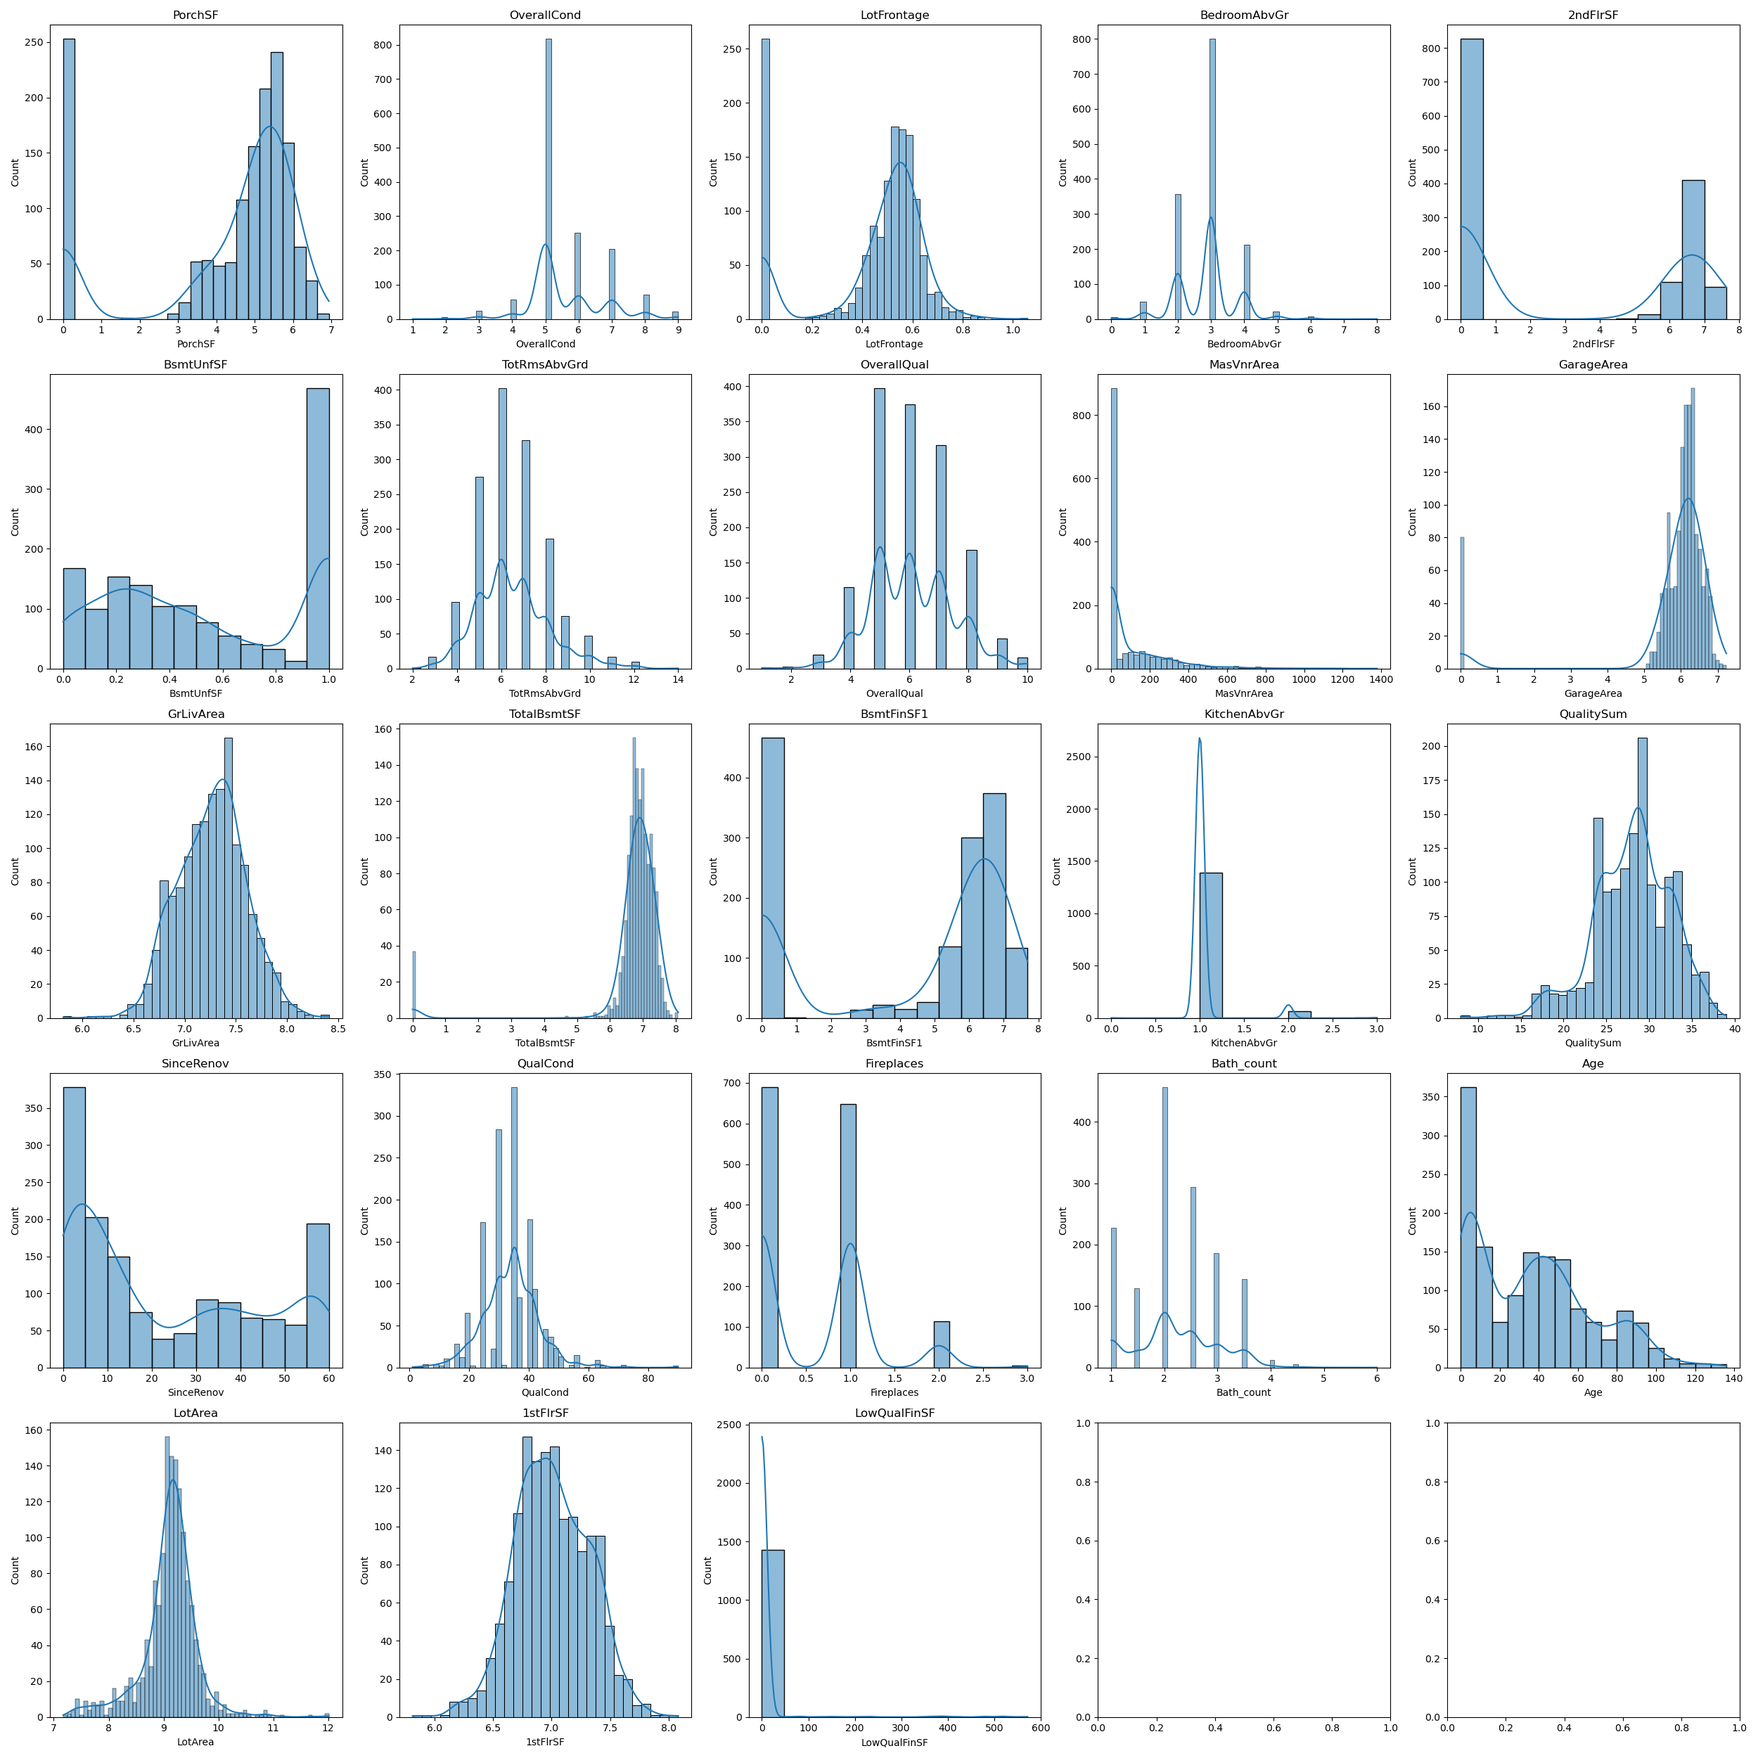
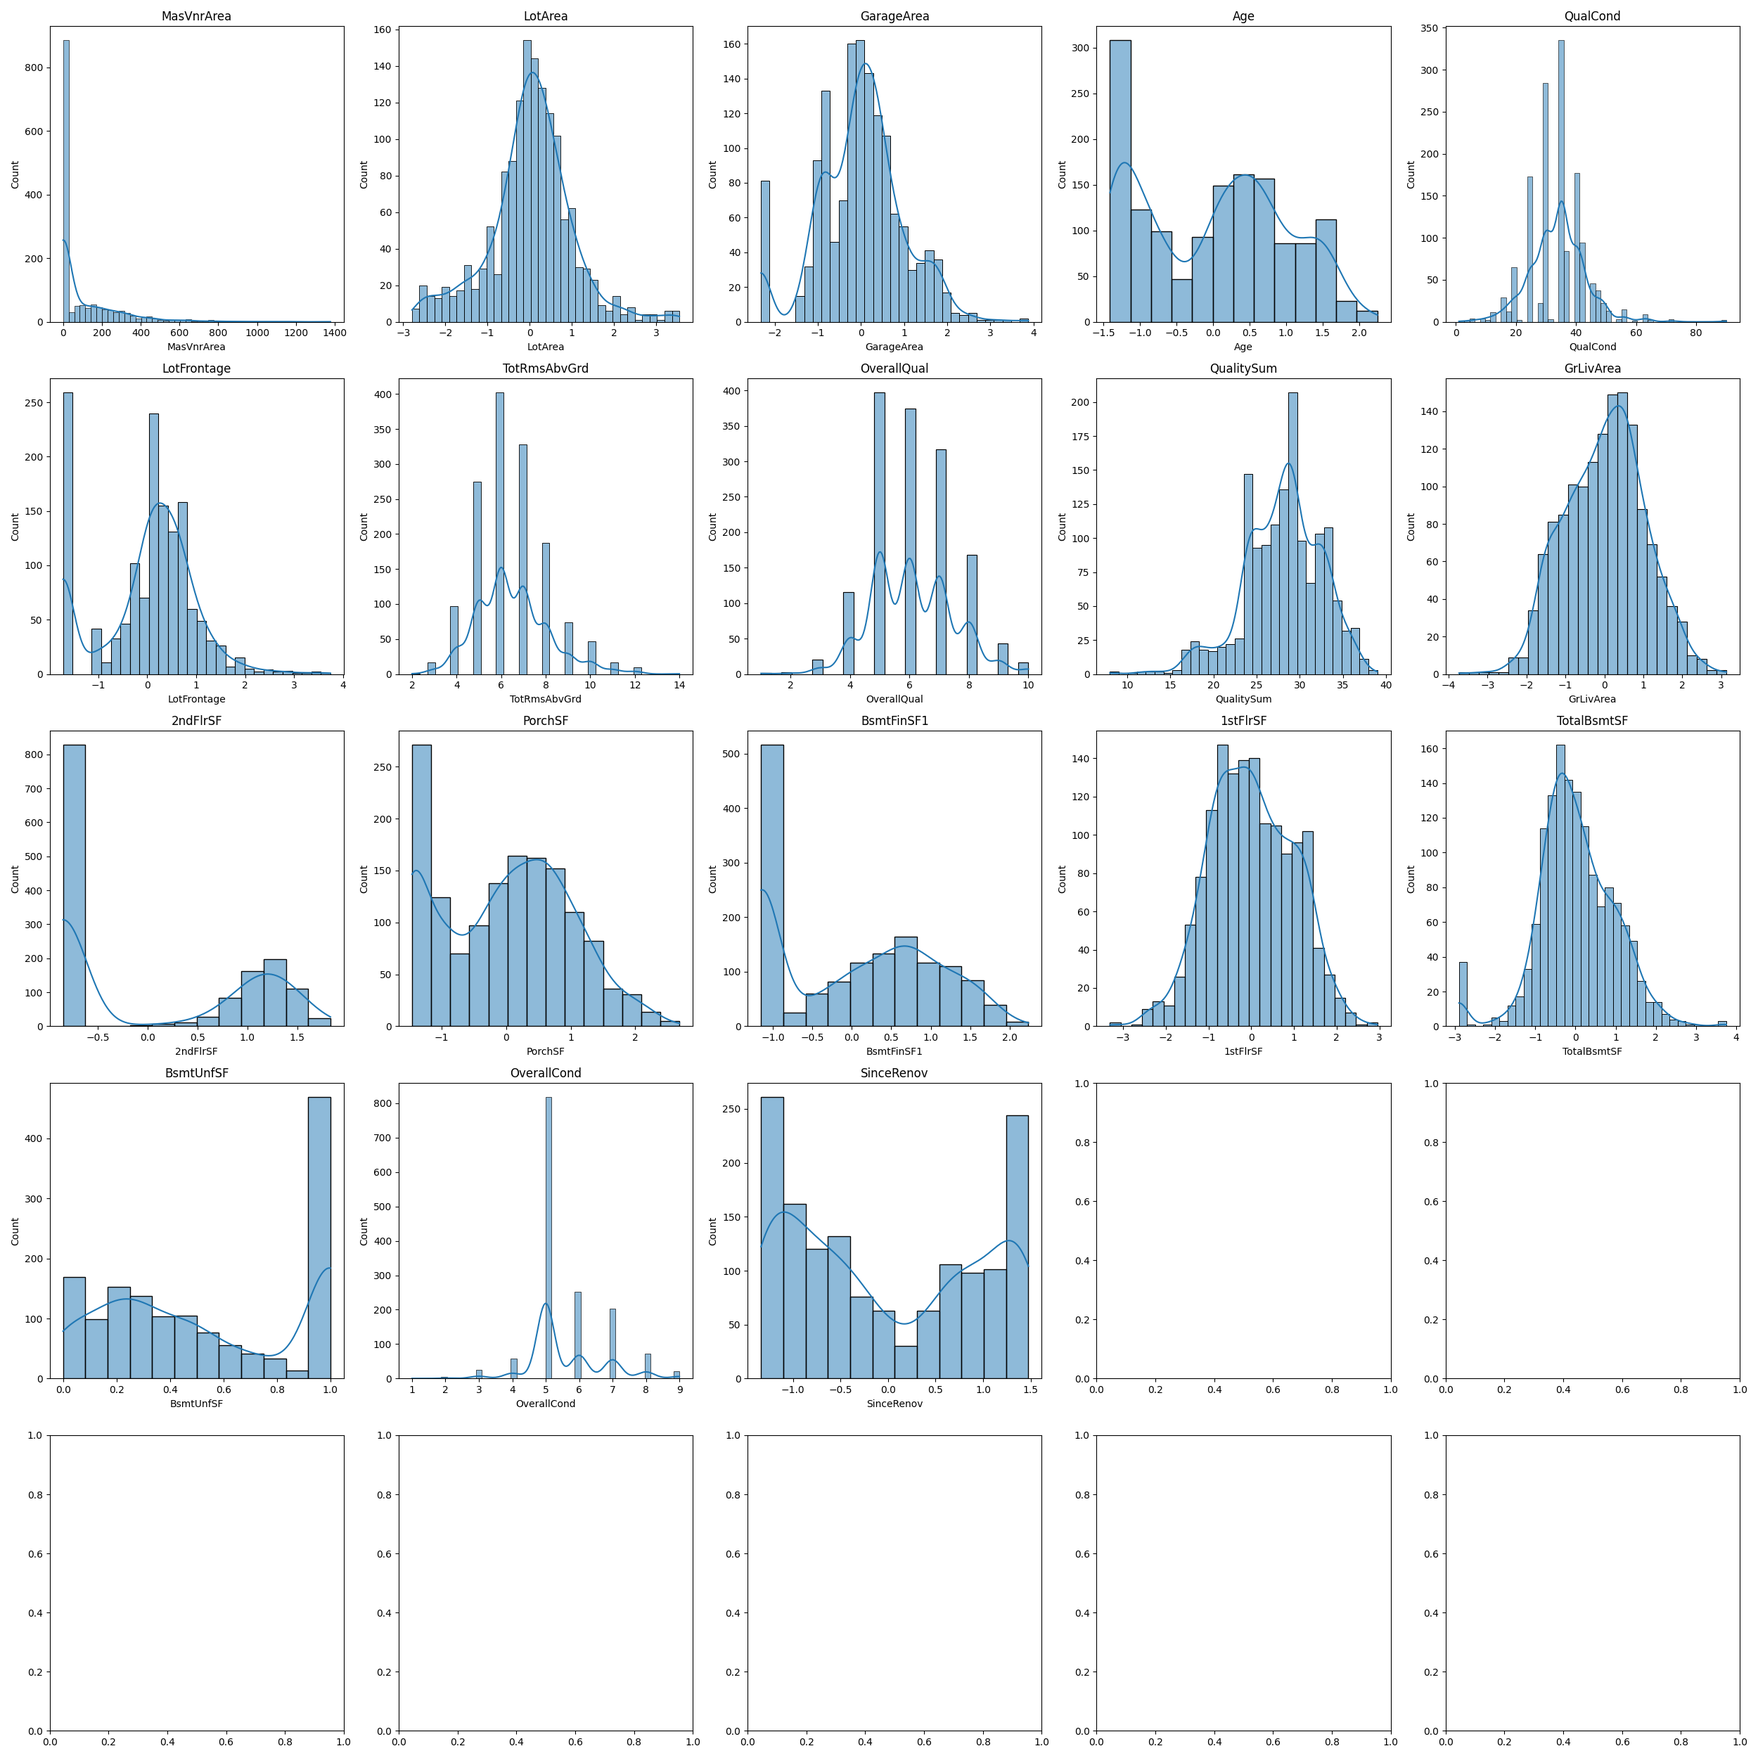
Feature scaling and transformation

diff --git a/train.py b/train.py
@@ -5,9 +5,9 @@ plt.rcParams.update({'figure.max_open_warning': 0})
 import seaborn as sn
 
 import shap
-
-from sklearn.impute import SimpleImputer
-from sklearn import preprocessing 
+from sklearn import preprocessing
+from sklearn.preprocessing import PowerTransformer
+from sklearn.preprocessing import MinMaxScaler
 from sklearn import metrics
 from sklearn.model_selection import train_test_split
 from sklearn.linear_model import LinearRegression
@@ -139,7 +139,7 @@ print(combine_data.groupby('MasVnrType', as_index=False)['OverallQual'].mean())
 garage_list = ['GarageType','GarageFinish','GarageQual','GarageCond']
 quality_sum_list =['ExterQual','BsmtQual','HeatingQC','KitchenQual','FireplaceQu','GarageQual','ExterCond', 'BsmtCond', 'GarageCond', 'PoolQC']
 bath_list = ['BsmtFullBath','BsmtHalfBath','FullBath','HalfBath']
-bmst_list = ['BsmtQual','BsmtCond','BsmtExposure','BsmtFinType1','BsmtFinType2']
+bsmt_list = ['BsmtQual','BsmtCond','BsmtExposure','BsmtFinType1','BsmtFinType2']
 porch_list = ['OpenPorchSF','ScreenPorch','EnclosedPorch','3SsnPorch','WoodDeckSF']
 
 #####FEATURE ENGINEERING; FILL MISSING DATA MANUALLY
@@ -161,6 +161,16 @@ combine_data.loc[combine_data['LotFrontage'].isna(), 'LotFrontage'] = 0
 combine_data.loc[combine_data['GarageYrBlt'].isna(), 'GarageYrBlt'] = 0
 combine_data.loc[combine_data['GarageArea'].isna(), 'GarageArea'] = 0
 combine_data.loc[combine_data['GarageCars'].isna(), 'GarageCars'] = 0
+combine_data.loc[combine_data['MasVnrArea'].isna(), 'MasVnrArea'] = 0
+
+combine_data.loc[combine_data['Electrical'].isna(), 'Electrical'] = 'SBrkr'
+combine_data.loc[combine_data['Functional'].isna(), 'Functional'] = 'Typ'
+combine_data.loc[combine_data['Utilities'].isna(), 'Utilities'] = 'AllPub'
+combine_data.loc[combine_data['SaleType'].isna(), 'SaleType'] = 'WD'
+combine_data.loc[combine_data['Exterior1st'].isna(), 'Exterior1st'] = 'Plywood'
+combine_data.loc[combine_data['Exterior2nd'].isna(), 'Exterior2nd'] = 'Plywood'
+
+combine_data.loc[combine_data['KitchenQual'].isna(), 'KitchenQual'] = combine_data.loc[combine_data['KitchenAbvGr'] == 1, 'KitchenQual'].value_counts().idxmax()
 
 combine_data['QualCond'] = combine_data['OverallQual'] * combine_data['OverallCond']
 
@@ -175,11 +185,6 @@ combine_data.loc[combine_data['GarageCars'] == 2 , 'GarageCars'] = 'Two'
 combine_data.loc[combine_data['GarageCars'] == 3 , 'GarageCars'] = 'Three'
 combine_data.loc[combine_data['GarageCars'] == 4 , 'GarageCars'] = 'Four'
 
-as_string_list = ['MoSold', 'MSSubClass', 'GarageCars']
-for col in as_string_list:
-	combine_data[col] = combine_data[col].astype(str)
-
-
 
 k = 0
 while k < len(combine_data):
@@ -187,22 +192,6 @@ while k < len(combine_data):
 		combine_data.at[k,'Pool'] = 1
 	else:
 		combine_data.at[k,'Pool'] = 0
-	# if pd.isna(combine_data.at[k, 'MiscFeature']):
-	# 	combine_data.at[k, 'MiscFeature'] = 0
-	# else:
-	# 	combine_data.at[k, 'MiscFeature'] = 1
-	# if pd.isna(combine_data.at[k, 'MasVnrType']): ######Feature depends on OverallQual; use it as criterion to fill missing values
-	# 	if combine_data.at[k, 'OverallQual'] == 7:
-	# 		combine_data.at[k, 'MasVnrType'] = 'BrkFace'
-	# 	elif combine_data.at[k, 'OverallQual'] > 7:
-	# 		combine_data.at[k, 'MasVnrType'] = 'Stone'
-	# 	else:
-	# 		combine_data.at[k, 'MasVnrType'] = 'Abs'
-	if pd.isna(combine_data.at[k, 'MasVnrArea']): ######No strong correlation with any other feature, fill with data mean
-		if combine_data.at[k, 'MasVnrType'] != 'Abs':
-			combine_data.at[k, 'MasVnrArea'] = combine_data.loc[combine_data['MasVnrArea'] > 0, 'MasVnrArea'].mean()
-		else:
-			combine_data.at[k, 'MasVnrArea'] = 0
 	# if pd.isna(combine_data.at[k, 'LotFrontage']): ######No strong correlation with any other feature, fill with data mean
 	# 	combine_data.at[k, 'LotFrontage'] = combine_data.loc[combine_data['LotFrontage'] > 0, 'LotFrontage'].mean()		
 	# for col in garage_list:
@@ -242,12 +231,11 @@ while k < len(combine_data):
 			combine_data.at[k, 'QualitySum'] += 1
 	if combine_data.at[k, 'TotalBsmtSF'] > 0:
 		combine_data.at[k, 'BsmtUnfSF'] =  combine_data.at[k, 'BsmtUnfSF']/combine_data.at[k, 'TotalBsmtSF']
-	if combine_data.at[k, 'TotalBsmtSF'] == 0:
-		combine_data.at[k, 'BsmtFinType1'] = 'Abs'
-		combine_data.at[k, 'BsmtFinType2'] = 'Abs'
-		combine_data.at[k, 'BsmtExposure'] = 'Abs'
-		combine_data.at[k, 'BsmtQual'] = 'Abs'
-		combine_data.at[k, 'BsmtCond'] = 'Abs'
+	for col in bsmt_list:
+		if combine_data.at[k, 'TotalBsmtSF'] == 0:
+			combine_data.at[k, col] = 'Abs'
+		elif (pd.isna(combine_data.at[k, col])) and (combine_data.at[k, 'TotalBsmtSF'] > 0):
+			combine_data.at[k, col] = combine_data.loc[combine_data['TotalBsmtSF'] > 0, col].value_counts().idxmax()
 	combine_data.at[k, 'SinceRenov'] = combine_data.at[k, 'YrSold'] - combine_data.at[k, 'YearRemodAdd']
 	if combine_data.at[k, 'SinceRenov'] < 0:
 		combine_data.at[k, 'SinceRenov'] = 0
@@ -256,7 +244,7 @@ while k < len(combine_data):
 		combine_data.at[k, 'Age'] = 0
 	combine_data.at[k, 'PorchSF'] = combine_data.at[k, 'OpenPorchSF'] + combine_data.at[k, 'EnclosedPorch'] + combine_data.at[k, '3SsnPorch'] + combine_data.at[k, 'ScreenPorch'] + combine_data.at[k, 'WoodDeckSF']
 	combine_data.at[k, 'Bath_count'] = combine_data.at[k, 'BsmtFullBath'] + combine_data.at[k, 'FullBath'] + 0.5*combine_data.at[k, 'BsmtHalfBath'] + 0.5*combine_data.at[k, 'HalfBath']
-	combine_data.at[k, 'LotFrontage'] = combine_data.at[k, 'LotFrontage'] / np.sqrt(combine_data.at[k,'LotArea'])
+	##combine_data.at[k, 'LotFrontage'] = combine_data.at[k, 'LotFrontage'] / np.sqrt(combine_data.at[k,'LotArea'])
 	if pd.isna(combine_data.at[k, 'MSZoning']): #####Fill missing values based on 
 		combine_data.at[k, 'MSZoning'] = 'C (all)'
 		if combine_data.at[k,'YearBuilt'] > 1938:
@@ -269,6 +257,10 @@ while k < len(combine_data):
 			combine_data.at[k, 'MSZoning'] = 'FV'
 	k+=1
 
+as_string_list = ['MoSold', 'MSSubClass', 'GarageCars', 'KitchenAbvGr', 'BedroomAbvGr', 'Fireplaces', 'Bath_count', 'GarageYrBlt']
+for col in as_string_list:
+	combine_data[col] = combine_data[col].astype(str)
+
 #####CONVERT PORCH FEATURES TO BINARY
 for col in porch_list:
 	combine_data.loc[combine_data[col] > 0, col] = 1
@@ -276,18 +268,13 @@ for col in porch_list:
 i = i.rename({'OpenPorchSF': 'OpenPorch', 'WoodDeckSF': 'WoodDeck'}, axis=1)
 
 #####DROP COLUMNS THAT HAVE BEEN USED FOR ENGINEERRING
-drop_eng_list = ['YrSold', 'YearBuilt', 'YearRemodAdd', 'PoolArea']
+drop_eng_list = ['YrSold', 'YearBuilt', 'YearRemodAdd', 'PoolArea', 'GarageYrBlt']
 drop_eng_list.extend([*bath_list, *garage_list])
 combine_data.drop(drop_eng_list, axis=1, inplace=True)
 
 mis_train = combine_data.isnull().sum()
 print('Columns with missing values after manual filling:')
 print(mis_train[mis_train > 0])		
-for col in combine_data.columns: ####Fill missing values in left over columnt with most frequent value
-	if col not in 'SalePrice':
-		imputer = SimpleImputer(missing_values=np.nan, strategy='most_frequent')
-		imputer.fit(combine_data[[col]])
-		combine_data[[col]] = imputer.transform(combine_data[[col]])
 
 list_empty=combine_data.columns[combine_data.isnull().any()].tolist()
 missing = []
@@ -311,52 +298,59 @@ for col in combine_data.columns:
 		combine_data = pd.concat([combine_data,pd.get_dummies(combine_data[col], prefix = col)],axis = 1)
 		combine_data.drop(col, axis=1, inplace=True)
 
-train = combine_data.loc[combine_data['Test'] == 0].copy()
-train.drop('Test', axis=1, inplace=True)
-test = combine_data.loc[combine_data['Test'] == 1].copy()
-test.drop('Test', axis=1, inplace=True)
-test.drop('SalePrice', axis=1, inplace=True)
-
-#####REDEFINE DATA, TRAIN AND TEST NAME DUE TO CONCAT
-train.name = 'train'
-test.name = 'test'
-data = [train,test]
-
-binary_col_list = return_binary_col(train)
+binary_col_list = return_binary_col(combine_data)
 
 #####HISTOGRAMS CONTINUOUS DATA
 f, ax = plt.subplots(5, 6, figsize=(30, 25))
 l=1
-for col in [elem for elem in list(set(train.columns) - set(binary_col_list)) if elem not in ['SalePrice', 'Id']]:
+for col in [elem for elem in list(set(combine_data.columns) - set(binary_col_list)) if elem not in ['SalePrice', 'Id']]:
 	ax = plt.subplot(5,6,l)
-	sn.histplot(data=train[col])
+	sn.histplot(data=combine_data[col])
 	ax.set_title(col)
 	l+=1
 f.tight_layout()
 plt.savefig('graphs/hist_num.png')
 plt.close
 
-#####TRANSFORM CONTINUOUS DATA TO REDUCE SKEWNESS
-transform_list=['SalePrice','LotArea','LotFrontage','GrLivArea','TotalBsmtSF', '1stFlrSF','2ndFlrSF', 'GarageArea','PorchSF', 'BsmtFinSF1', 'BsmtFinSF2', 'MiscVal', 'MiscVnrArea']
-for i in data:
-	for col in [element for element in transform_list if element in train]:
-		if i.name == 'test' and col == 'SalePrice':
-			pass
-		elif i.name == 'train' and col == 'SalePrice':
-			i[col] = np.log1p(i.loc[:,col].values.reshape(-1, 1))
-		else:
-			i[col] = np.log1p(i.loc[:,col].values.reshape(-1, 1))
+#####SKEWNESS OF CONTINUOUS FEATURES
+transform_list=['LotArea','LotFrontage','GrLivArea','TotalBsmtSF', '1stFlrSF','2ndFlrSF', 'GarageArea','PorchSF', 'BsmtFinSF1', 'BsmtFinSF2', 'MiscVal', 'MiscVnrArea', 'Age', 'SinceRenov']
+cont_skew = {}
+for col in [element for element in transform_list if element in combine_data]:
+	cont_skew[col] = combine_data[col].skew()
+print('\nSkewness of continuous features:')
+[print(key,':',value) for key, value in cont_skew.items()]
+
+#####SCALE AND TRANSFORM CONTINUOUS DATA TO REDUCE SKEWNESS
+mm_scaler = preprocessing.MinMaxScaler()
+pt = PowerTransformer()
+for col in [element for element in transform_list if element in combine_data]:
+	combine_data[col] = mm_scaler.fit_transform(combine_data.loc[:,col].values.reshape(-1, 1))
+	combine_data[col] = pt.fit_transform(combine_data.loc[:,col].values.reshape(-1, 1))
 
 f, ax = plt.subplots(5, 6, figsize=(25, 20))
 l=1
-for i in [elem for elem in list(set(train.columns) - set(binary_col_list)) if elem not in ['SalePrice', 'Id']]:
+for col in [elem for elem in list(set(combine_data.columns) - set(binary_col_list)) if elem not in ['SalePrice', 'Id']]:
 	ax = plt.subplot(5,6,l)
-	sn.histplot(data=train[i])
-	ax.set_title(i)
+	sn.histplot(data=combine_data[col])
+	ax.set_title(col)
 	l+=1
 f.tight_layout()
 plt.savefig('graphs/hist_num_quantile.png')
 plt.close
+
+######SPLIT IN TEST AND TRAIN AGAIN
+train = combine_data.loc[combine_data['Test'] == 0].copy()
+train.drop('Test', axis=1, inplace=True)
+test = combine_data.loc[combine_data['Test'] == 1].copy()
+test.drop('Test', axis=1, inplace=True)
+test.drop('SalePrice', axis=1, inplace=True)
+
+train['SalePrice'] = np.log1p(train.loc[:,'SalePrice'].values.reshape(-1, 1))
+
+#####REDEFINE DATA, TRAIN AND TEST NAME DUE TO CONCAT
+train.name = 'train'
+test.name = 'test'
+data = [train,test]
 
 f, ax = plt.subplots(5, 6, figsize=(25, 20))
 l=1
@@ -385,7 +379,7 @@ print(*drop_corr, sep = '\n')
 cont_skew = {}
 for col in [element for element in transform_list if element in train]:
 	cont_skew[col] = train[col].skew()
-print('\nSkewness of continuous features:')
+print('\nSkewness after scaling and transformation of features:')
 [print(key,':',value) for key, value in cont_skew.items()]
 
 #####CHECK FOR OUTLIERS
@@ -406,17 +400,19 @@ plt.savefig('graphs/scatter_price_cont_final.png')
 plt.close
 
 #####DROP COLUMNS WITH NO CORRELATION TO PRICE, BASED ON PREVIOUS SCATTER PLOT
-drop_scatter_list = ['KitchenAbvGrd', 'BsmtFinSF2', 'MiscVal', 'LowQualFinSF', 'BedRoomAbvGrd']
+drop_scatter_list = ['BsmtFinSF2', 'LowQualFinSF']
+for i in data:
+	i.drop(drop_scatter_list, axis=1, inplace=True)
 
 #####REMOVE SOME MAX OUTLIERS - JUDGEMENT BASED ON SCATTER PLOT
-outlier_col = ['LotArea', 'LotFrontage', 'MasVnrArea', 'GrLivArea', 'TotalBsmtSF']
+outlier_col = ['LotFrontage', 'MasVnrArea', 'GrLivArea', 'TotalBsmtSF','GarageArea', 'QualitySum']
 outlier_row = []
 for col in outlier_col:
 	if train[col].idxmax() in outlier_row:
 		pass
 	else:
 		outlier_row.append(train[col].idxmax())
-	if col in ('GrLivArea'):
+	if col in ('GrLivArea', 'LotFrontage'):
 		print('\nMaximal values of %s:' % col)
 		print(train[col].nlargest(2))
 		second_max = train.loc[train[col] == train[col].nlargest(2).iloc[1]].index[0]
@@ -674,43 +670,43 @@ Y_pred = lgb_reg_opt.predict(x_test)
 print('Accuracy Optimized LightGBM (RMSLE):',np.sqrt(metrics.mean_squared_log_error(np.expm1(y_test), np.expm1(Y_pred))))
 
 ####TRAIN XGB REGRESSOR WITH ALL TRAIN DATA
-estimator = xgb.XGBRegressor(
-    n_jobs=-1,
-    verbosity=0,
-)
+# estimator = xgb.XGBRegressor(
+#     n_jobs=-1,
+#     verbosity=0,
+# )
 
-search_space = {
-    'learning_rate': (Real(0.001, 1.0, 'log-uniform')),
-    'eta': (Real(0.1, 0.5, 'log-uniform')),
-    'gamma': (0.0, 0.5),
-    'min_child_weight': (0, 10),
-    'max_depth': (2, 12),
-    'colsample_bytree': (Real(0.01, 1.0, 'log-uniform')),
-    'min_child_weight': (0, 5),
-    'reg_lambda': (Real(0.00001,1,'log-uniform')),
-    'reg_alpha': (Real(0.00001,1,'log-uniform')),
-    'subsample': (0.5, 1.0),
-    'n_estimators': (5, 5000),
-}
+# search_space = {
+#     'learning_rate': (Real(0.001, 1.0, 'log-uniform')),
+#     'eta': (Real(0.1, 0.5, 'log-uniform')),
+#     'gamma': (0.0, 0.5),
+#     'min_child_weight': (0, 10),
+#     'max_depth': (2, 12),
+#     'colsample_bytree': (Real(0.01, 1.0, 'log-uniform')),
+#     'min_child_weight': (0, 5),
+#     'reg_lambda': (Real(0.00001,1,'log-uniform')),
+#     'reg_alpha': (Real(0.00001,1,'log-uniform')),
+#     'subsample': (0.5, 1.0),
+#     'n_estimators': (5, 5000),
+# }
 
-cv = KFold(n_splits=5, shuffle=True)
-n_iterations = 50
-bayes_cv_tuner = BayesSearchCV(
-    estimator=estimator,
-    search_spaces=search_space,
-    scoring='neg_root_mean_squared_error',
-    cv=cv,
-    n_jobs=-1,
-    n_iter=n_iterations,
-    verbose=0,
-    refit=True,
-)
+# cv = KFold(n_splits=3, shuffle=True)
+# n_iterations = 50
+# bayes_cv_tuner = BayesSearchCV(
+#     estimator=estimator,
+#     search_spaces=search_space,
+#     scoring='neg_root_mean_squared_error',
+#     cv=cv,
+#     n_jobs=-1,
+#     n_iter=n_iterations,
+#     verbose=0,
+#     refit=True,
+# )
 
-xg_reg_all_data = bayes_cv_tuner.fit(X_train, Y_train, callback=print_status)
-print('\nOptimized XGBoost Parameters for All Data:')
-print(xg_reg_all_data.best_params_)
-Y_pred = xg_reg_all_data.predict(x_test)
-print('Accuracy Optimized XGBoost Trained on all Data (RMSLE):',np.sqrt(metrics.mean_squared_log_error(np.expm1(y_test), np.expm1(Y_pred))))
+# xg_reg_all_data = bayes_cv_tuner.fit(X_train, Y_train, callback=print_status)
+# print('\nOptimized XGBoost Parameters for All Data:')
+# print(xg_reg_all_data.best_params_)
+# Y_pred = xg_reg_all_data.predict(x_test)
+# print('Accuracy Optimized XGBoost Trained on all Data (RMSLE):',np.sqrt(metrics.mean_squared_log_error(np.expm1(y_test), np.expm1(Y_pred))))
 
 # xg_reg_all_data = xgb.XGBRegressor(learning_rate = 0.02206560306361786, colsample_bytree = 0.13229035226856173, eta = 0.07009800269441162, gamma= 0.0, max_depth = 2, min_child_weight = 0, n_estimators = 2441, reg_alpha = 1e-05, reg_lambda = 3.1417848320047077, subsample = 0.7286057220169017)
 # xg_reg_all_data.fit(X_train,Y_train)
@@ -730,9 +726,9 @@ prediction_catboost = np.expm1(prediction_catboost)
 predict_export['SalePrice'] = prediction_catboost
 predict_export.to_csv('submission_cb.csv',index=False)
 
-predict_export = pd.DataFrame()
-predict_export['Id'] = test['Id']
-prediction_xgboost = xg_reg_all_data.predict(test.drop('Id', axis=1))
-prediction_xgboost = np.expm1(prediction_xgboost)
-predict_export['SalePrice'] = prediction_xgboost
-predict_export.to_csv('submission_xgb_all.csv',index=False)
+# predict_export = pd.DataFrame()
+# predict_export['Id'] = test['Id']
+# prediction_xgboost = xg_reg_all_data.predict(test.drop('Id', axis=1))
+# prediction_xgboost = np.expm1(prediction_xgboost)
+# predict_export['SalePrice'] = prediction_xgboost
+# predict_export.to_csv('submission_xgb_all.csv',index=False)
